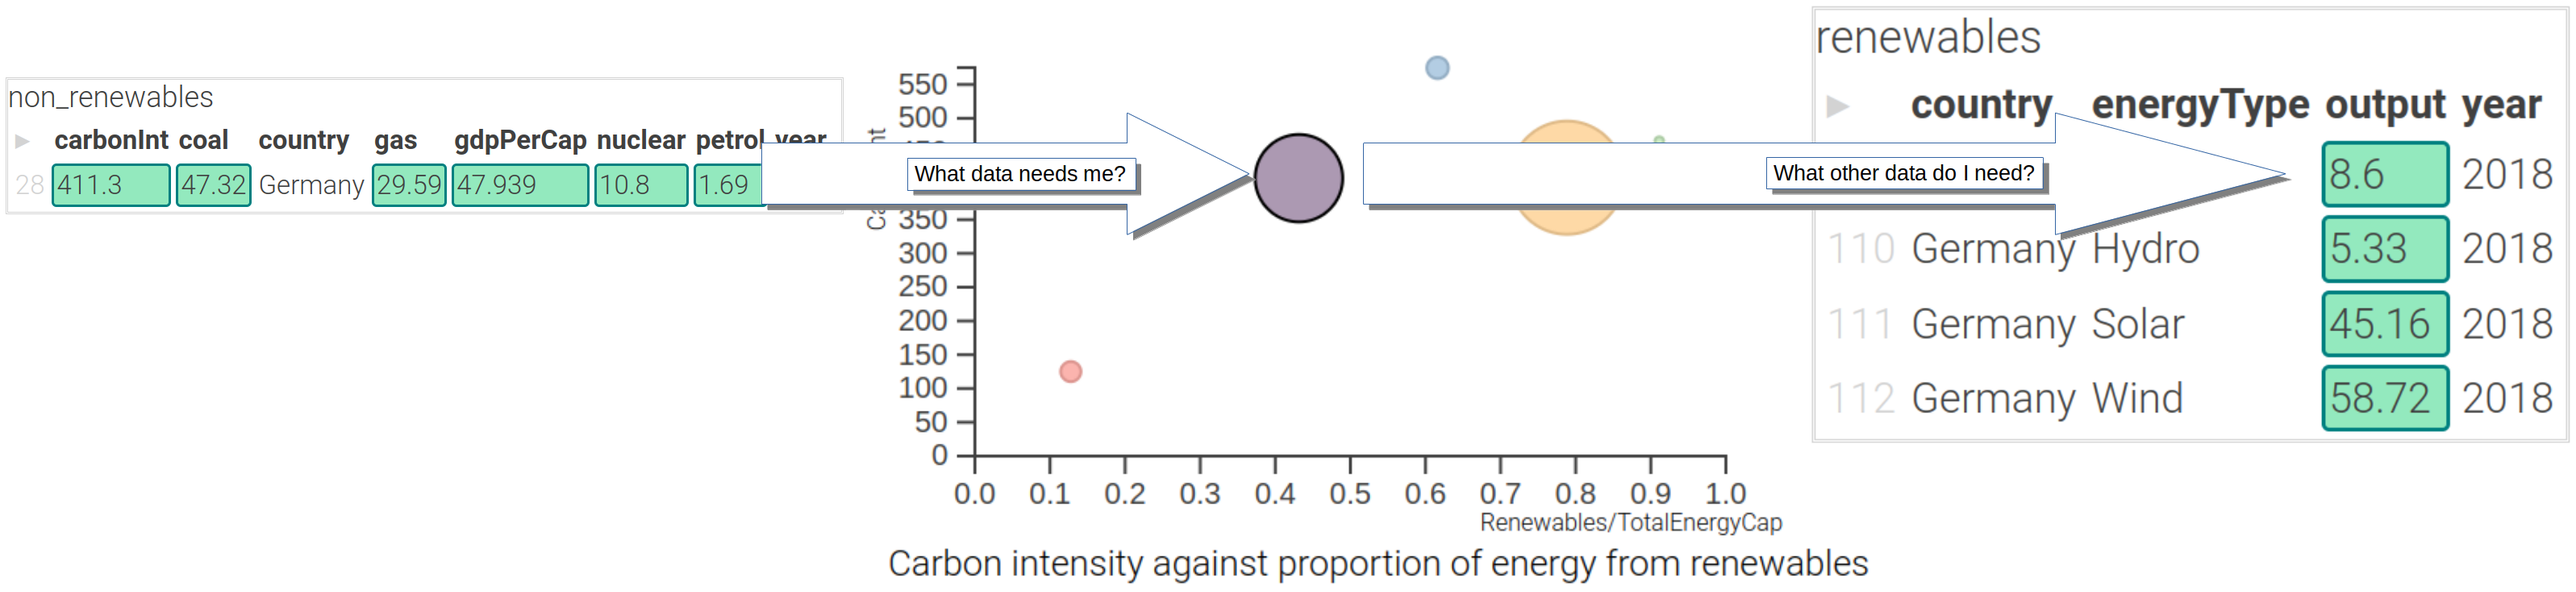
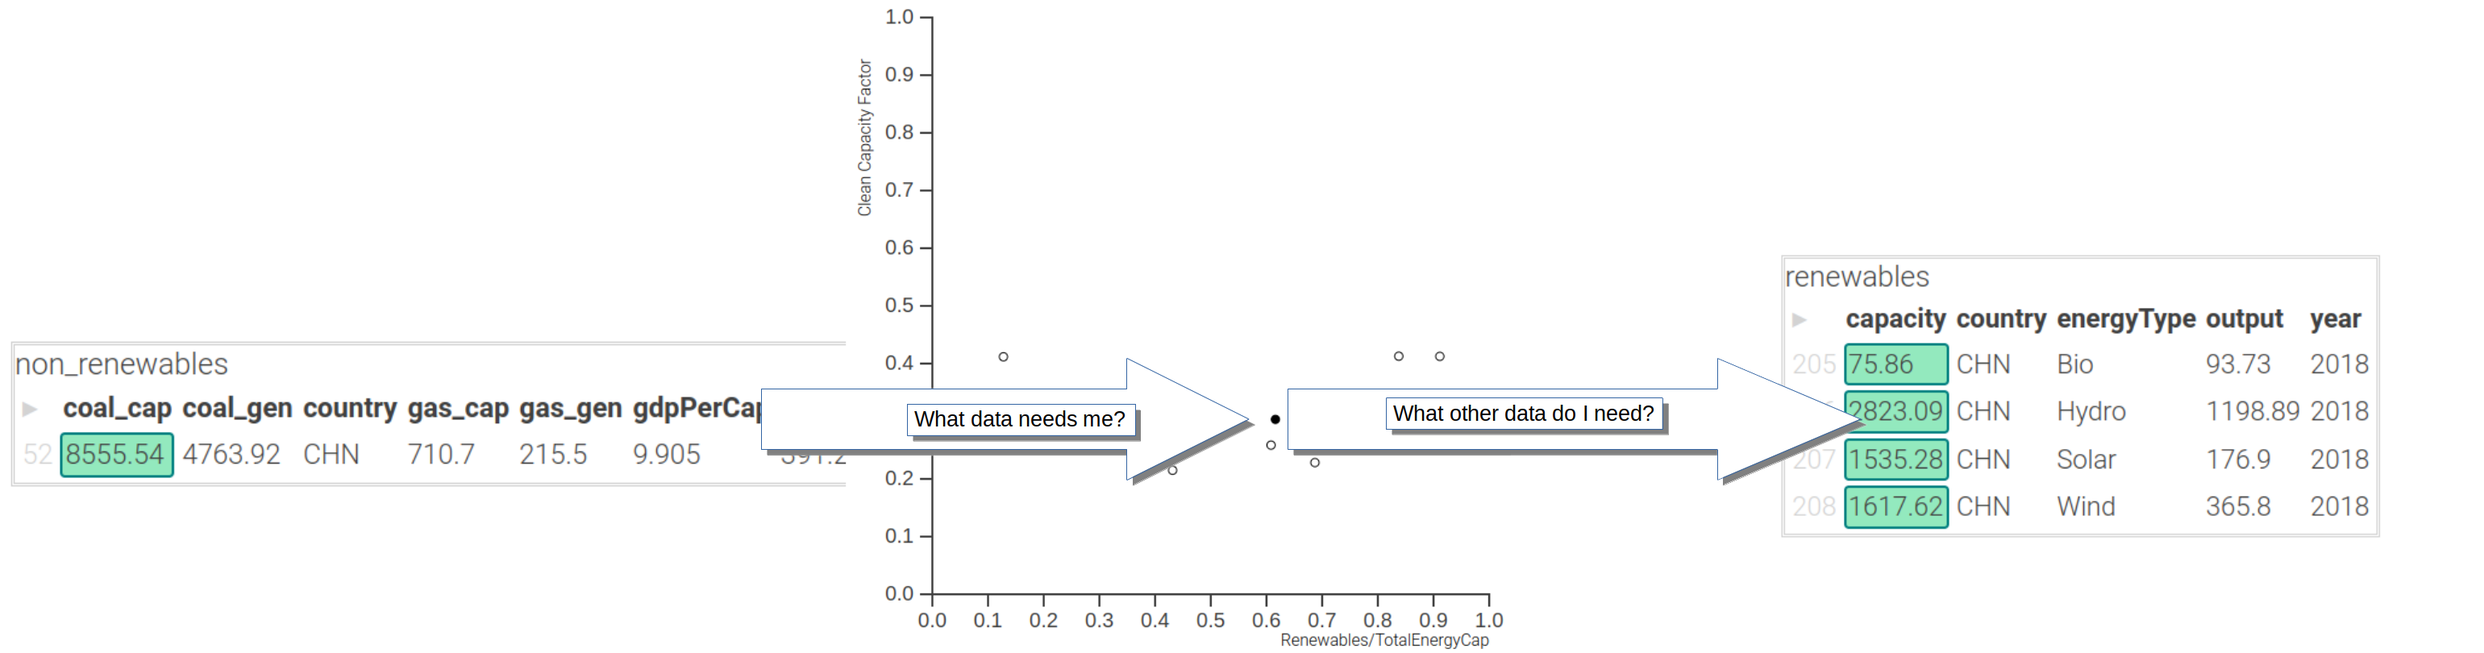
Replaced non-renewables to renewables linked figure

diff --git a/sec/example.tex b/sec/example.tex
@@ -121,11 +121,6 @@ admit such an easy description, but is empirically faster in most examples we ha
       \includegraphics[width=\textwidth]{fig/example/non-renewables-to-renewables.png}
       \label{fig:linked-inputs-1}
    \end{subfigure}
-   \vfill
-   \begin{subfigure}{\textwidth}
-      \includegraphics[width=\textwidth]{fig/example/renewable-to-non-renewable.png}
-      \label{fig:linked-inputs-2}
-   \end{subfigure}
    \caption{Linking inputs in both directions}
 \end{figure}
 
